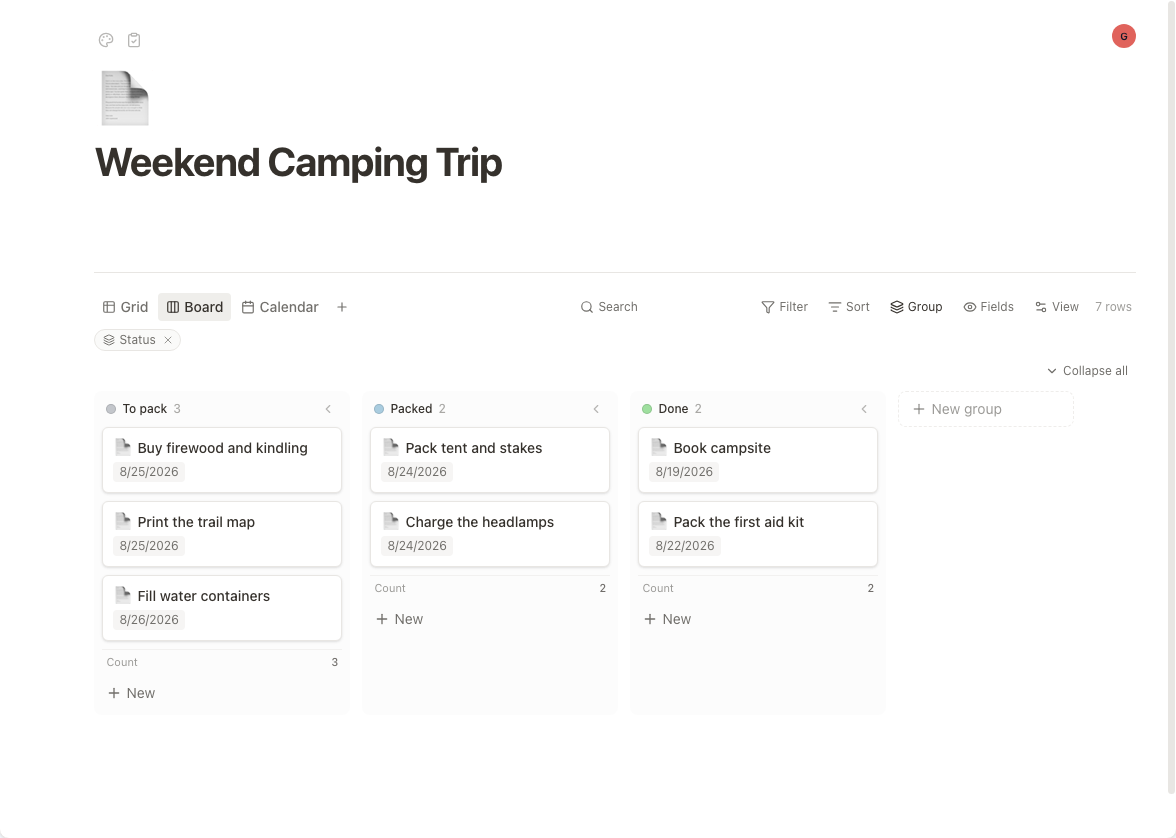
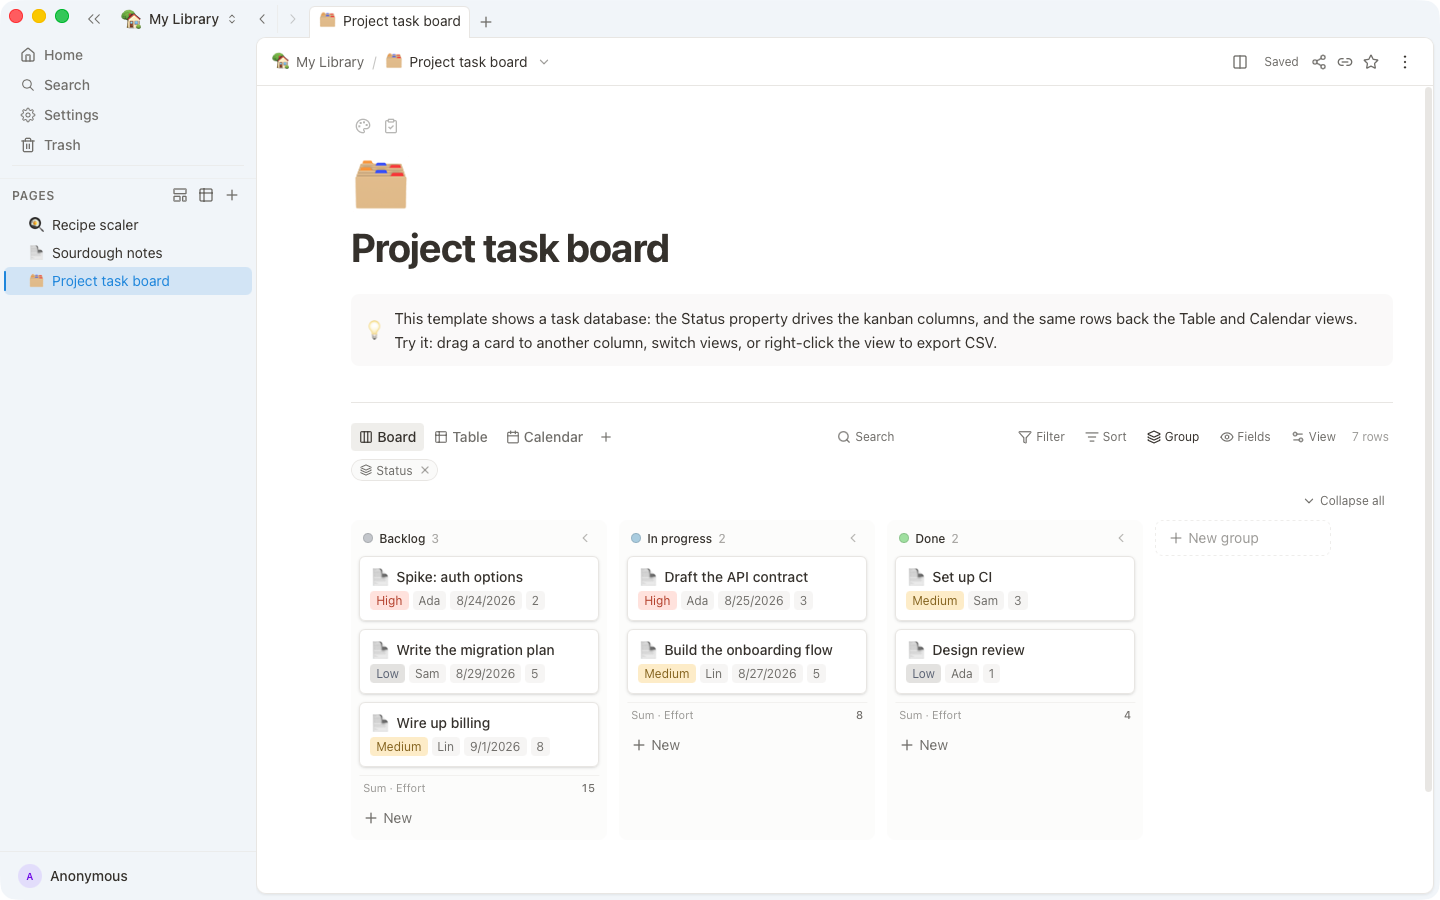
docs: README overhaul — recipes-first, pick-your-path, desktop-build captures (RELAUNCH-3) (#335)
* docs: overhaul README for human-first onboarding

* docs: apply design-review fixes — recaptured shots + feature bullets (README-1)

Replace desktop-tabs, present-mode, share-dialog, and editor-slash with
re-shot v2 captures (real content instead of dev fixtures, no stray
selection/focus artifacts, a claimed-library share state), swap the
features-list reactive image for a distinct grocery-budget example
(reactive-chart stays as the hero), and add Present/Share bullets to the
top feature list so every screenshot has a claim behind it. Also folds in
the product review's text fixes: honest cross-platform auto-update
wording, a Linux x86_64 clause, the book.cloud unlinked-bold revert, and
centering the whole header block (H1/tagline/links/hero) together.

* docs: retake captures without dev indicator (README-1)

Re-verify caught the Next.js dev-indicator "N" chip baked into all four
v2 shots (desktop-tabs, editor-slash, present-mode, reactive-grocery) at
the bottom-left corner. Retaken with the same seeds/states/sizes, this
time suppressing <nextjs-portal> via a page.addStyleTag() applied
post-load right before each shot — an addInitScript-time CSS override
wasn't reliable against the indicator's shadow root.

* docs: finish recipes-first README showcase

* docs: retake README media from the desktop build (macOS chrome) + recipe scaler shot (README-1)

---------

diff --git a/README.md b/README.md
@@ -1,73 +1,119 @@
 <div align="center">
 
+<img src="packages/web/public/icon.svg" alt="OpenBook logo" width="96"/>
+
 # OpenBook
 
-**A safe space for your notes — free, open source, and yours offline.**
+**Notes, databases, and interactive pages that work offline.**
 
-**[Download](https://github.com/lab255/OpenBook/releases/latest) | [Website](https://open.book.pub) | [Features](#features)**
+[![License: MIT](https://img.shields.io/github/license/lab255/OpenBook)](LICENSE)
+[![Latest release](https://img.shields.io/github/v/release/lab255/OpenBook)](https://github.com/lab255/OpenBook/releases/latest)
+![Platforms: macOS · Linux · Windows](https://img.shields.io/badge/platform-macOS%20%C2%B7%20Linux%20%C2%B7%20Windows-555)
 
-![A slider driving a live compound-growth chart in OpenBook](docs/media/reactive-chart.png)
+**[Download](#download) · [open.book.pub](https://open.book.pub) · [Templates](#templates) · [Contributing](#contributing)**
+
+![A page open in tabs in the OpenBook desktop app](docs/media/desktop-tabs.png)
 
 </div>
 
-## For everyone
+## Pick your path
 
-OpenBook is a private, open-source home for notes, databases, and interactive pages. It works offline and keeps your work on your machine; an account, sharing, and sync are optional.
+🟢 **Just want a notebook that works offline?** → [Download OpenBook](#download)
 
-Download the [latest release](https://github.com/lab255/OpenBook/releases/latest) for your platform:
+🔵 **Want pages that compute as you edit?** → See it [in action](#in-action) or start from a [template](#templates)
 
-- **macOS:** Choose `OpenBook_<ver>_aarch64.dmg` for Apple Silicon or `OpenBook_<ver>_x64.dmg` for Intel. The app is signed and notarized, so it opens normally.
-- **Windows:** Prefer `OpenBook_<ver>_x64-setup.exe`; an `.msi` installer is also available. Windows may show a SmartScreen warning for now—select **More info → Run anyway**. Signed builds are on the way.
-- **Linux:** Choose the `.AppImage`, `.deb`, or `.rpm` package for your system. All builds are 64-bit x86 (x86_64).
+🟣 **Want the internals—SDK, plugins, and local-first sync?** → Go to [For developers](#for-developers) or [Contributing](#contributing)
 
-OpenBook updates automatically on macOS, Windows, and the Linux AppImage, and makes automatic local backups out of the box.
+## In action
 
-## Features
+<table>
+<tr>
+<td width="45%"><img src="docs/media/feature-recipe-scaler.png" alt="A recipe scaler with a servings slider, ingredient table, and chart in the OpenBook desktop app"/></td>
+<td width="55%">
 
-- Build calculators, charts and dashboards that update as you type — and see how they're wired.
-- Put spreadsheets inside your pages. Filter, sort, and switch between table, board, calendar, timeline, map and more.
-- Keep pages inside pages. Open them in tabs, windows, or side by side.
-- Deleted something? Get it back from the Trash.
-- Export self-contained HTML that stays interactive offline.
-- Add custom blocks, commands, and integrations with plugins.
-- Present a page with speaker notes and a timer.
-- Share pages with the people you choose.
+### 🍳 Scale a recipe live
 
-Write naturally, then use the slash menu to add structured blocks.
+Move the servings slider and the ingredient table and chart recompute together. **Change one input; every connected block stays in sync.**
 
-![The OpenBook editor with its slash menu open](docs/media/editor-slash.png)
+</td>
+</tr>
+</table>
 
-Turn the same database into focused grid, board, calendar, timeline, or map views.
+<table>
+<tr>
+<td width="55%">
 
-![A project database shown as a board in OpenBook](docs/media/database-views-board.png)
+### ⌨ Add blocks without leaving the keyboard
 
-Build reactive pages where controls update calculators, charts, and dashboards instantly.
+Type `/` to insert text, media, databases, controls, charts, and more. **Build structured pages in the same flow as writing.**
 
-![A grocery budget page where a household-size radio and category sliders drive a live pie chart in OpenBook](docs/media/reactive-grocery.png)
+</td>
+<td width="45%"><img src="docs/media/editor-slash.png" alt="The slash-command block menu open in the OpenBook desktop app"/></td>
+</tr>
+</table>
 
-Present a page with speaker notes, a timer, and a clean audience view.
+<table>
+<tr>
+<td width="45%"><img src="docs/media/database-views-board.png" alt="A project database displayed as a board in the OpenBook desktop app"/></td>
+<td width="55%">
 
-![Present mode with speaker notes and a timer](docs/media/present-mode.png)
+### 🗂 Switch the view, not the data
 
-Share a page with the people you choose and control their access.
+Show one database as a grid, board, calendar, timeline, or map, with filters and sorting for each view. **Keep one source of truth for different workflows.**
 
-![The OpenBook page-sharing dialog](docs/media/share-dialog.png)
+</td>
+</tr>
+</table>
 
-Keep pages organized in desktop tabs while navigating your library.
+<table>
+<tr>
+<td width="55%">
 
-![The OpenBook desktop app with a page open in a tab](docs/media/desktop-tabs.png)
+### 🎤 Present from the page
 
-See the [full feature tour](https://open.book.pub).
+Turn a page into a clean audience view while keeping speaker notes and a timer close by. **Write and present from the same document.**
+
+</td>
+<td width="45%"><img src="docs/media/present-mode.png" alt="A presentation with speaker notes and a timer in the OpenBook desktop app"/></td>
+</tr>
+</table>
+
+<table>
+<tr>
+<td width="45%"><img src="docs/media/share-dialog.png" alt="Page sharing and access controls in the OpenBook desktop app"/></td>
+<td width="55%">
+
+### 🛜 Work locally, share when you choose
+
+Edits land in a local database first, so the app keeps working offline; sync and collaboration are optional. **Your notebook does not depend on a connection.**
+
+</td>
+</tr>
+</table>
+
+## Templates
+
+The gallery ships with ready-made interactive templates: **recipe scaler**, grocery price tracker, task board, roadmap, and pitch deck. Use one as-is or open it up to see how its controls, data, and views connect.
+
+## Download
+
+Download the [latest release](https://github.com/lab255/OpenBook/releases/latest). OpenBook makes automatic local backups on every platform; macOS, Windows, and the Linux AppImage also update automatically.
+
+| Platform | Download | Notes |
+| --- | --- | --- |
+| macOS | `OpenBook_<ver>_aarch64.dmg` (Apple Silicon) or `OpenBook_<ver>_x64.dmg` (Intel) | Signed and notarized. |
+| Windows | `OpenBook_<ver>_x64-setup.exe` (recommended) or `.msi` | Windows may show SmartScreen; choose **More info → Run anyway**. Signed builds are planned. |
+| Linux | `.AppImage`, `.deb`, or `.rpm` | 64-bit x86 (x86_64). Choose the package for your distribution. |
 
 ## Sharing and sync
 
-OpenBook works offline with no account. For sync or collaboration, self-host the server or publish a library to **book.cloud**. book.cloud requires a free account.
+OpenBook works offline with no account, and edits are written to its local database first. For sync or collaboration, self-host the server or publish a library to **book.cloud**; book.cloud requires a free account.
 
 ## For developers
 
-Issues and contributions are welcome. Read [CONTRIBUTING.md](CONTRIBUTING.md) for the contribution guidelines and [DEVELOPMENT.md](DEVELOPMENT.md) for the full development guide.
+OpenBook includes an SDK and plugin system, with a local-first desktop client and optional sync server. See [ARCHITECTURE.md](ARCHITECTURE.md), the [`packages`](packages/) directory, and [DEVELOPMENT.md](DEVELOPMENT.md) for the system design, code layout, and setup instructions.
 
-Prerequisites: Node.js `^22.14.0 || >=24.10.0`, pnpm, Bun `1.3.14`, and a Rust toolchain.
+Prerequisites are Node.js `^22.14.0 || >=24.10.0`, pnpm, Bun `1.3.14`, and a Rust toolchain.
 
 ```sh
 corepack enable
@@ -75,7 +121,9 @@ pnpm install
 pnpm dev
 ```
 
-For the system design and code layout, see [ARCHITECTURE.md](ARCHITECTURE.md) and the [`packages`](packages/) directory. Report security issues privately as described in [SECURITY.md](SECURITY.md).
+## Contributing
+
+Issues and contributions are welcome. Read [CONTRIBUTING.md](CONTRIBUTING.md) before opening a change, and report security issues privately as described in [SECURITY.md](SECURITY.md).
 
 ## License
 
